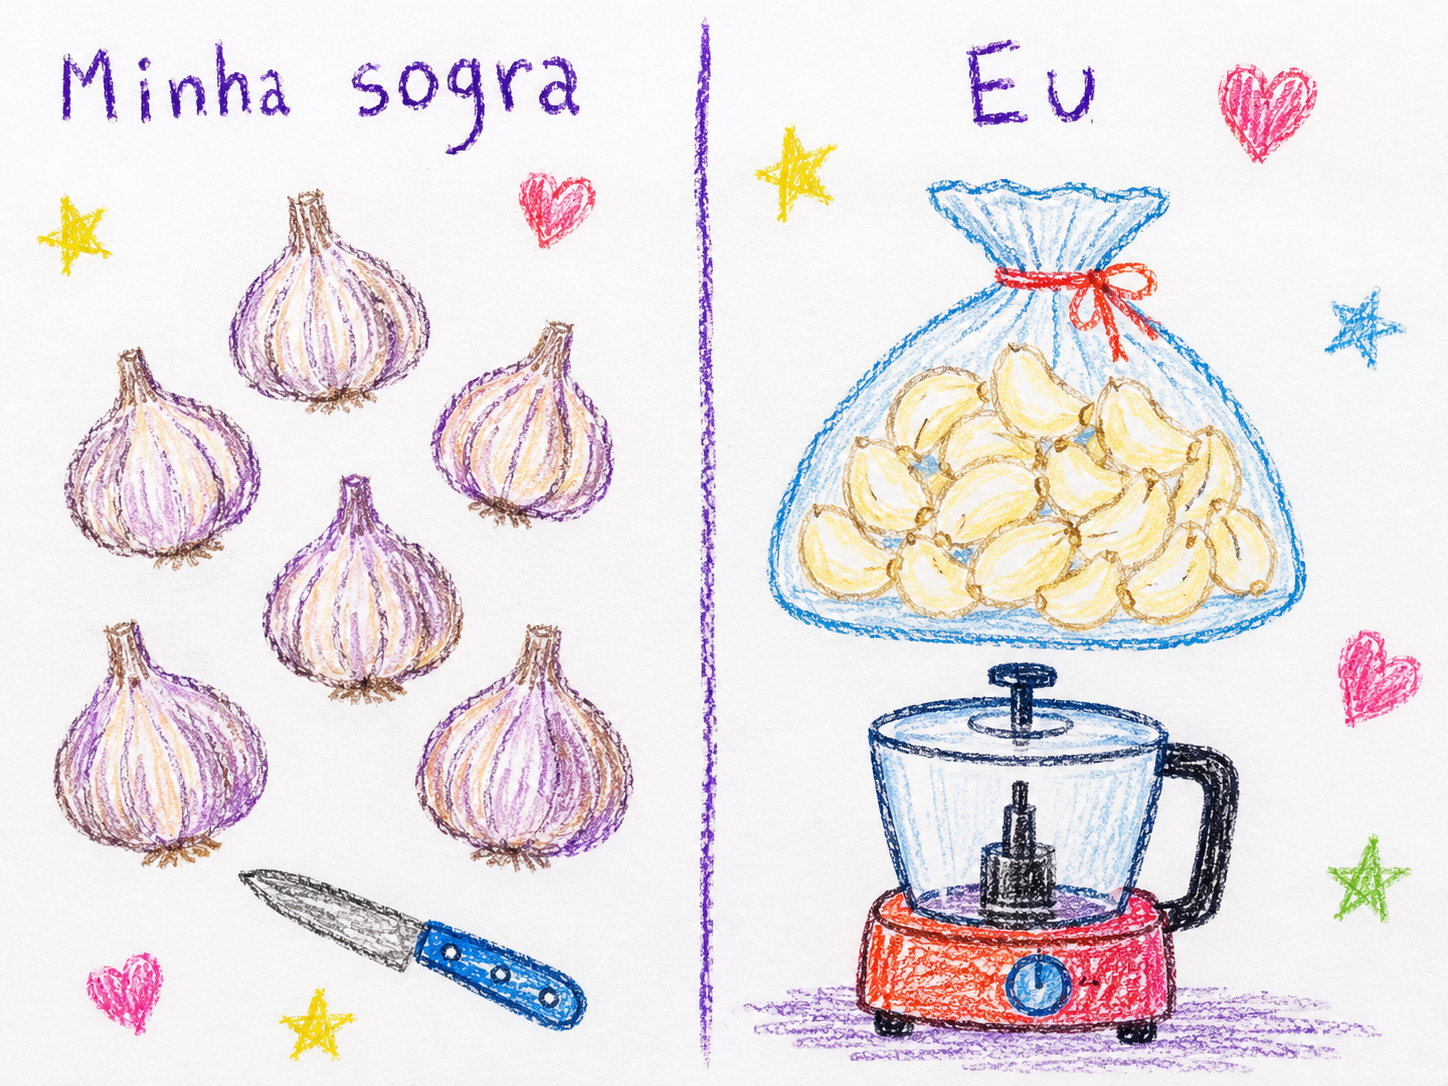
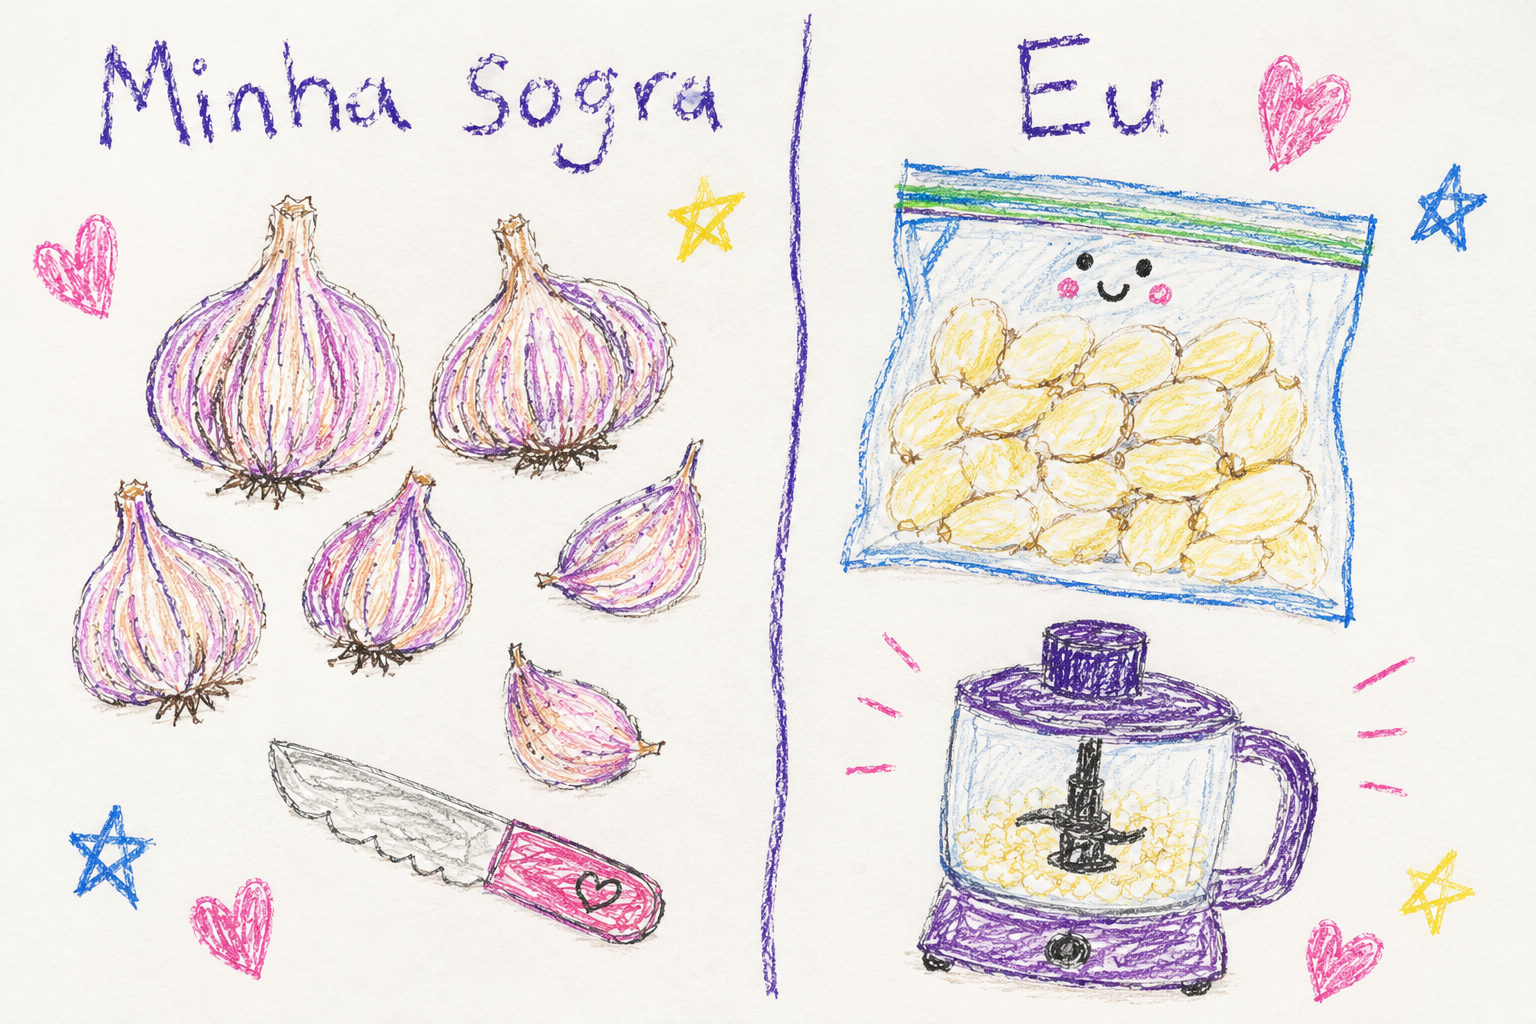
Refine homepage layout and article presentation

diff --git a/app/page.tsx b/app/page.tsx
@@ -1,5 +1,6 @@
 import Link from "next/link";
 import { ArticleCard } from "@/components/article-card";
+import { ProfileLinks } from "@/components/profile-links";
 import { getAllPosts } from "@/lib/posts";
 
 export default function HomePage() {
@@ -7,33 +8,32 @@ export default function HomePage() {
   const featuredPost = posts.find((post) => post.featured) ?? posts[0];
 
   return (
-    <>
-      <section className="shell intro" aria-labelledby="intro-title">
+    <div className="shell homeLayout">
+      <section className="intro" aria-labelledby="intro-title">
         <h1 id="intro-title">Hello, I’m Gabriel.</h1>
+        <ProfileLinks />
         <div className="introText">
           <p>I’m passionate about data, math, products, building things, thinking deeply, writing, and explaining complex ideas in simple terms (even though I struggle with most of them, haha).</p>
         </div>
         <div className="introMeta"><span>Rio de Janeiro, Brazil</span><span>Head of Data at EdukDados</span></div>
       </section>
 
-      <div className="shell homeSectionsGrid">
-        <section className="homeSection" aria-labelledby="writing-title">
-          <div className="sectionContent">
-            <h2 id="writing-title">Posts &amp; articles</h2>
-            <p>Essays, technical notes, and practical observations about work, learning, data, and the processes behind what we make.</p>
-            {featuredPost && <ArticleCard post={featuredPost} compact />}
-            <Link className="textLink" href="/writing/">Visit all posts &amp; articles →</Link>
-          </div>
-        </section>
+      <section className="homeSection postsSection" aria-labelledby="writing-title">
+        <div className="sectionContent">
+          <h2 id="writing-title"><Link className="sectionTitleLink" href="/writing/">Brain Dump</Link></h2>
+          <p>Essays, technical notes, and practical observations about work, learning, data, and the processes behind what we make.</p>
+          {featuredPost && <ArticleCard post={featuredPost} compact />}
+          <Link className="textLink" href="/writing/">Visit the Brain Dump →</Link>
+        </div>
+      </section>
 
-        <section className="homeSection quietSection" id="projects" aria-labelledby="projects-title">
-          <div className="sectionContent">
-            <h2 id="projects-title">Selected work, eventually.</h2>
-            <p>Project notes and case studies will appear here when they are ready to be shared properly.</p>
-            <span className="statusLine"><span aria-hidden="true" /> Coming soon</span>
-          </div>
-        </section>
-      </div>
-    </>
+      <section className="homeSection projectsSection" id="projects" aria-labelledby="projects-title">
+        <div className="sectionContent">
+          <h2 id="projects-title">Projects</h2>
+          <p>Project notes and case studies will appear here when they are ready to be shared properly.</p>
+          <span className="statusLine"><span aria-hidden="true" /> Coming soon</span>
+        </div>
+      </section>
+    </div>
   );
 }

diff --git a/app/globals.css b/app/globals.css
@@ -37,19 +37,24 @@ a { color: inherit; text-decoration-thickness: 1px; text-underline-offset: .22em
 .iconNav a { width: 38px; height: 38px; display: grid; place-items: center; border-radius: 50%; color: var(--secondary); text-decoration: none; transition: color .16s ease, background-color .16s ease; }
 .iconNav a:hover { color: var(--accent); background: var(--accent-soft); }
 .iconNav svg { width: 19px; height: 19px; }
+.introProfileLinks { margin-top: 1.15rem; }
 
-.intro { padding-block: clamp(4.5rem, 8vw, 7rem); display: grid; grid-template-columns: repeat(12, 1fr); gap: 24px; align-items: start; }
-.intro h1 { grid-column: 1 / 7; margin: 0; font-family: var(--serif); font-size: clamp(4rem, 8vw, 7rem); line-height: .95; font-weight: 400; letter-spacing: -.055em; }
-.introText { grid-column: 7 / 12; margin-top: 2rem; font-size: clamp(1.1rem, 2vw, 1.35rem); }
+.homeLayout { display: grid; grid-template-columns: minmax(300px, 2fr) minmax(0, 3fr); grid-template-areas: "intro posts" "projects posts"; column-gap: clamp(3rem, 8vw, 8rem); align-items: start; padding-block: clamp(3.5rem, 7vw, 6rem) clamp(5rem, 10vw, 8rem); }
+.intro { grid-area: intro; }
+.intro h1 { margin: 0; font-family: var(--serif); font-size: clamp(4rem, 6vw, 5.75rem); line-height: .95; font-weight: 400; letter-spacing: -.055em; }
+.introText { margin-top: 1.75rem; font-size: clamp(1rem, 1.5vw, 1.15rem); }
 .introText > p:first-child { margin-top: 0; color: var(--ink); }
 .placeholderCopy { font-size: .96rem; color: var(--secondary); }
 .placeholderCopy .mono { display: block; color: var(--accent); margin-bottom: .6rem; }
-.introMeta { grid-column: 7 / 12; display: flex; flex-wrap: wrap; gap: .5rem 1.5rem; padding-top: 1rem; margin-top: 1rem; border-top: 1px solid var(--rule); color: var(--muted); font-size: .8rem; }
+.introMeta { display: flex; flex-wrap: wrap; gap: .5rem 1.5rem; padding-top: 1rem; margin-top: 2.5rem; border-top: 1px solid var(--rule); color: var(--muted); font-size: .72rem; }
 
-.homeSectionsGrid { display: grid; grid-template-columns: minmax(0, 3fr) minmax(280px, 2fr); gap: clamp(2.5rem, 6vw, 6rem); }
-.homeSection { padding-block: clamp(4rem, 9vw, 7rem); border-top: 1px solid var(--ink); }
+.homeSection { border: 0; }
+.postsSection { grid-area: posts; }
+.projectsSection { grid-area: projects; margin-top: clamp(3rem, 6vw, 5rem); }
 .sectionContent { max-width: var(--reading); }
-.sectionContent h2 { margin: -.15rem 0 1.5rem; font-family: var(--serif); font-size: clamp(2.5rem, 5vw, 4.25rem); line-height: 1; font-weight: 400; letter-spacing: -.04em; }
+.sectionContent h2 { margin: -.15rem 0 1.25rem; font-family: var(--serif); font-size: clamp(2.4rem, 4vw, 3.5rem); line-height: 1; font-weight: 400; letter-spacing: -.04em; }
+.sectionTitleLink { text-decoration: none; }
+.sectionTitleLink:hover { color: var(--accent); }
 .sectionContent > p { color: var(--secondary); font-size: 1.08rem; }
 .emptyState { margin: 3rem 0 1.5rem; padding: 1.5rem 0; border-block: 1px solid var(--rule); display: flex; justify-content: space-between; gap: 2rem; }
 .emptyState p { margin: 0; color: var(--muted); }
@@ -67,7 +72,6 @@ a { color: inherit; text-decoration-thickness: 1px; text-underline-offset: .22em
 .articleCardCompact .articleCardImage { min-height: 210px; }
 .articleCardCompact .articleCardBody { padding: 1.5rem; }
 .articleCardCompact .articleCardBody strong { font-size: clamp(1.8rem, 3vw, 2.5rem); }
-.quietSection { border-color: var(--rule); padding-bottom: clamp(6rem, 12vw, 10rem); }
 .statusLine { display: inline-flex; align-items: center; gap: .55rem; margin-top: 1.5rem; font-family: var(--mono); font-size: .7rem; text-transform: uppercase; color: var(--muted); }
 .statusLine > span { width: 7px; height: 7px; border-radius: 50%; background: var(--accent); }
 
@@ -82,12 +86,11 @@ a { color: inherit; text-decoration-thickness: 1px; text-underline-offset: .22em
 
 .articlePage { width: min(calc(100% - 48px), var(--reading)); margin-inline: auto; padding-block: clamp(4rem, 10vw, 8rem); }
 .articleHeader { margin-bottom: clamp(3rem, 7vw, 5rem); }
-.articleHeader h1 { margin: 1.25rem 0 1.5rem; font-family: var(--serif); font-size: clamp(3.8rem, 9vw, 7rem); line-height: .94; font-weight: 400; letter-spacing: -.055em; }
+.articleHeader h1 { margin: 0 0 1.5rem; font-family: var(--serif); font-size: clamp(3.8rem, 9vw, 7rem); line-height: .94; font-weight: 400; letter-spacing: -.055em; }
 .articleDek { max-width: 580px; color: var(--secondary); font-size: 1.15rem; }
 .articleMeta { margin-top: 2rem; padding-top: 1rem; border-top: 1px solid var(--rule); color: var(--muted); }
-.articleHero { position: relative; aspect-ratio: 3 / 2; margin: 0 0 clamp(3rem, 7vw, 5rem); overflow: hidden; background: var(--soft); }
-.articleHero img { object-fit: cover; }
-.articleBody { font-family: var(--serif); font-size: clamp(1.15rem, 2.2vw, 1.3rem); line-height: 1.75; }
+.articleBody { font-family: var(--serif); font-size: 1.1rem; line-height: 1.75; }
+/* .articleBody { font-family: var(--serif); font-size: clamp(1.05rem, 1.8vw, 1.18rem); line-height: 1.75; } */
 .articleBody p { margin: 0 0 1.55em; }
 .articleBody p:first-child::first-letter { float: left; margin: .08em .12em 0 0; color: var(--accent); font-size: 4.2em; line-height: .75; }
 .articleBody h2, .articleBody h3 { margin: 2.2em 0 .75em; line-height: 1.15; font-weight: 400; letter-spacing: -.025em; }
@@ -121,13 +124,12 @@ a { color: inherit; text-decoration-thickness: 1px; text-underline-offset: .22em
   .headerRight { gap: .75rem; }
   .iconNav { gap: .2rem; }
   .iconNav a { width: 36px; height: 36px; }
-  .intro { grid-template-columns: 1fr; padding-block: 4.5rem; }
-  .intro h1, .introText, .introMeta { grid-column: 1; }
+  .homeLayout { grid-template-columns: 1fr; grid-template-areas: "intro" "posts" "projects"; row-gap: 4rem; padding-block: 4rem 6rem; }
   .intro h1 { font-size: clamp(3.8rem, 18vw, 6.5rem); }
   .introText { margin-top: 2rem; }
   .introMeta { margin-top: 2rem; }
   .headerRight { flex-wrap: wrap; justify-content: center; gap: .35rem 1rem; padding-block: .55rem; }
-  .homeSectionsGrid { grid-template-columns: 1fr; gap: 0; }
+  .projectsSection { margin-top: 0; }
   .emptyState { flex-direction: column; gap: .5rem; }
   .articleCard, .articleCardCompact { grid-template-columns: 1fr; }
   .articleCardImage, .articleCardCompact .articleCardImage { min-height: 220px; }

diff --git a/components/profile-links.tsx b/components/profile-links.tsx
@@ -1,0 +1,25 @@
+import Link from "next/link";
+
+type IconName = "email" | "github" | "linkedin" | "resume";
+
+const iconPaths: Record<IconName, React.ReactNode> = {
+  email: <><rect x="3" y="5" width="18" height="14" rx="2" /><path d="m3 7 9 6 9-6" /></>,
+  github: <path d="M15 22v-4a4.8 4.8 0 0 0-1-3.5c3.3-.4 6.8-1.6 6.8-7A5.4 5.4 0 0 0 19.4 4 5 5 0 0 0 19.2.5S18.1.1 15 1.8a13.4 13.4 0 0 0-7 0C4.9.1 3.8.5 3.8.5A5 5 0 0 0 3.6 4a5.4 5.4 0 0 0-1.4 3.5c0 5.4 3.5 6.6 6.8 7A4.8 4.8 0 0 0 8 18v4m0-3c-3 .9-3-1.5-4-2" />,
+  linkedin: <><rect x="3" y="9" width="4" height="12" /><path d="M5 3.5a2 2 0 1 0 0 4 2 2 0 0 0 0-4M11 21V9h4v2c1-1.5 2.5-2.3 4-1.8 2 .6 2 2.5 2 5.3V21h-4v-6c0-1.5-.5-2.5-2-2.5s-2 1-2 2.5v6" /></>,
+  resume: <><path d="M6 2h9l4 4v16H6z" /><path d="M14 2v5h5M9 12h7M9 16h7" /></>,
+};
+
+function Icon({ name }: { name: IconName }) {
+  return <svg aria-hidden="true" viewBox="0 0 24 24" fill="none" stroke="currentColor" strokeWidth="1.7" strokeLinecap="round" strokeLinejoin="round">{iconPaths[name]}</svg>;
+}
+
+export function ProfileLinks() {
+  return (
+    <nav className="iconNav introProfileLinks" aria-label="Contact and profile links">
+      <a href="mailto:[email redacted]" aria-label="Email" title="Email"><Icon name="email" /></a>
+      <a href="https://github.com/GGregon" aria-label="GitHub" title="GitHub" target="_blank" rel="noopener noreferrer"><Icon name="github" /></a>
+      <a href="https://www.linkedin.com/in/gabriel-gregon" aria-label="LinkedIn" title="LinkedIn" target="_blank" rel="noopener noreferrer"><Icon name="linkedin" /></a>
+      <Link href="/resume/" aria-label="Résumé" title="Résumé"><Icon name="resume" /></Link>
+    </nav>
+  );
+}

diff --git a/app/layout.tsx b/app/layout.tsx
@@ -29,20 +29,8 @@ export const metadata: Metadata = {
 
 export const viewport: Viewport = { width: "device-width", initialScale: 1, themeColor: "#f7f7f3" };
 
-type IconName = "email" | "github" | "linkedin" | "resume";
-const iconPaths: Record<IconName, React.ReactNode> = {
-  email: <><rect x="3" y="5" width="18" height="14" rx="2" /><path d="m3 7 9 6 9-6" /></>,
-  github: <path d="M15 22v-4a4.8 4.8 0 0 0-1-3.5c3.3-.4 6.8-1.6 6.8-7A5.4 5.4 0 0 0 19.4 4 5 5 0 0 0 19.2.5S18.1.1 15 1.8a13.4 13.4 0 0 0-7 0C4.9.1 3.8.5 3.8.5A5 5 0 0 0 3.6 4a5.4 5.4 0 0 0-1.4 3.5c0 5.4 3.5 6.6 6.8 7A4.8 4.8 0 0 0 8 18v4m0-3c-3 .9-3-1.5-4-2" />,
-  linkedin: <><rect x="3" y="9" width="4" height="12" /><path d="M5 3.5a2 2 0 1 0 0 4 2 2 0 0 0 0-4M11 21V9h4v2c1-1.5 2.5-2.3 4-1.8 2 .6 2 2.5 2 5.3V21h-4v-6c0-1.5-.5-2.5-2-2.5s-2 1-2 2.5v6" /></>,
-  resume: <><path d="M6 2h9l4 4v16H6z" /><path d="M14 2v5h5M9 12h7M9 16h7" /></>,
-};
-
-function Icon({ name }: { name: IconName }) {
-  return <svg aria-hidden="true" viewBox="0 0 24 24" fill="none" stroke="currentColor" strokeWidth="1.7" strokeLinecap="round" strokeLinejoin="round">{iconPaths[name]}</svg>;
-}
-
 function Header() {
-  return <header className="siteHeader"><div className="shell headerInner"><div className="headerRight"><nav className="primaryNav" aria-label="Primary navigation"><Link href="/writing/">Posts &amp; Articles</Link><Link href="/#projects">Projects</Link></nav><nav className="iconNav" aria-label="Contact and profile links"><a href="mailto:[email redacted]" aria-label="Email" title="Email"><Icon name="email" /></a><a href={siteConfig.github} aria-label="GitHub" title="GitHub" target="_blank" rel="noopener noreferrer"><Icon name="github" /></a><a href={siteConfig.linkedin} aria-label="LinkedIn" title="LinkedIn" target="_blank" rel="noopener noreferrer"><Icon name="linkedin" /></a><Link href="/resume/" aria-label="Résumé" title="Résumé"><Icon name="resume" /></Link></nav></div></div></header>;
+  return <header className="siteHeader"><div className="shell headerInner"><div className="headerRight"><nav className="primaryNav" aria-label="Primary navigation"><Link href="/">Home</Link><Link href="/writing/">Brain Dump</Link><Link href="/#projects">Projects</Link></nav></div></div></header>;
 }
 
 function Footer() {

diff --git a/app/writing/[slug]/page.tsx b/app/writing/[slug]/page.tsx
@@ -43,15 +43,10 @@ export default async function PostPage({ params }: PageProps) {
   return (
     <article className="articlePage" lang={post.language}>
       <header className="articleHeader">
-        <p className="eyebrow">Ensaio / {post.category}</p>
         <h1>{post.title}</h1>
         <p className="articleDek">{post.description}</p>
         <p className="articleMeta mono"><time dateTime={post.date}>{formatPostDate(post.date)}</time> · {post.author}</p>
       </header>
-
-      <figure className="articleHero">
-        <Image src={postAssetPath(post, post.cover)} alt={post.coverAlt} fill sizes="(max-width: 760px) 100vw, 700px" priority />
-      </figure>
 
       <div className="articleBody">
         <ReactMarkdown components={{
@@ -68,7 +63,7 @@ export default async function PostPage({ params }: PageProps) {
         }}>{post.content}</ReactMarkdown>
       </div>
 
-      <Link className="articleBack" href="/writing/">← Back to posts &amp; articles</Link>
+      <Link className="articleBack" href="/writing/">← Back to the Brain Dump</Link>
     </article>
   );
 }

diff --git a/app/writing/page.tsx b/app/writing/page.tsx
@@ -3,7 +3,7 @@ import { ArticleCard } from "@/components/article-card";
 import { getAllPosts } from "@/lib/posts";
 
 export const metadata: Metadata = {
-  title: "Posts & Articles",
+  title: "Brain Dump",
   description: "Notes on data architecture, analytics, machine learning, and educational technology.",
   alternates: { canonical: "/writing/" },
 };
@@ -14,7 +14,7 @@ export default function WritingPage() {
   return (
     <section className="shell archivePage">
       <header className="archiveHeader">
-        <p className="eyebrow">Posts &amp; articles</p>
+        <p className="eyebrow">Brain Dump</p>
         <h1>A public notebook,<br />slowly taking shape.</h1>
         <p>Short notes and longer articles about building data systems, working with analytical products, and learning from technical decisions.</p>
       </header>

diff --git a/lib/posts.ts b/lib/posts.ts
@@ -8,7 +8,6 @@ export type Post = {
   title: string;
   date: string;
   description: string;
-  category: string;
   author: string;
   language: string;
   cover: string;
@@ -40,7 +39,7 @@ function readPost(slug: string): Post | null {
   const parsed = parseFrontmatter(fs.readFileSync(filePath, "utf8"));
   if (!parsed || parsed.data.published !== "true") return null;
 
-  const required = ["title", "date", "description", "category", "author", "language", "cover", "coverAlt"];
+  const required = ["title", "date", "description", "author", "language", "cover", "coverAlt"];
   for (const field of required) {
     if (!parsed.data[field]) throw new Error(`Post "${slug}" is missing frontmatter field "${field}".`);
   }
@@ -53,7 +52,6 @@ function readPost(slug: string): Post | null {
     title: parsed.data.title,
     date: parsed.data.date,
     description: parsed.data.description,
-    category: parsed.data.category,
     author: parsed.data.author,
     language: parsed.data.language,
     cover: parsed.data.cover,

diff --git a/blog/posts/a-farofa-de-alho/index.md b/blog/posts/a-farofa-de-alho/index.md
@@ -2,11 +2,10 @@
 title: "A farofa de alho"
 date: "2026-07-22"
 description: "Um ensaio sobre tempo, processo e o que realmente faz diferença no resultado."
-category: "Cozinha & trabalho"
 author: "Gabriel Gregon"
 language: "pt-BR"
-cover: "cover.png"
-coverAlt: "Ilustração em lápis de cor de um prato de farofa de alho, com um sol e um coração"
+cover: "images/sogra_segurando_prato_farofa.png"
+coverAlt: "Ilustração em lápis de cor de uma mulher segurando um prato de farofa"
 published: true
 featured: true
 ---
@@ -19,42 +18,41 @@ Isso significa que passei cerca de 75% desse tempo aprendendo e, com certeza, er
 
 E não me entenda mal: isso não significa que, ao longo desses quase 20 anos, eu tenha me preocupado apenas em preparar alguma coisa para me alimentar. Na esmagadora maioria das vezes, eu errei justamente em situações nas quais meu objetivo era entregar um prato digno de restaurante. Esse é o meu hobby.
 
-De acordo com as pessoas mais próximas de mim, especialmente aquelas que já comeram da minha comida mais de uma vez, eu cozinho muito bem. Elas disseram. Jamais usaria um espaço privado como este para me auto-bajular, rs.
+De acordo com as pessoas mais próximas de mim, especialmente aquelas que já comeram da minha comida mais de uma vez, eu cozinho muito bem (dito por elas!!!. Não usaria um espaço privado como este para me auto-bajular, rs.)
 
 Feita essa breve digressão sobre minha relação com a gastronomia, apresento-lhes a farofa da minha sogra.
 
+![Sogra segurando prato](./images/sogra_segurando_prato_farofa.png)
+
 Minha sogra gosta de cortar o alho de uma maneira muito específica quando prepara farofa. A farofa dela é muito boa, mas eu sempre desconfiei que conseguiria chegar ao mesmo resultado — ou a um resultado indistinguível ao paladar — em uma fração do tempo.
 
-Acontece que minha sogra gosta de descascar o alho da forma mais difícil possível.
+Acontece que minha sogra gosta de descascar o alho da forma mais difícil possível!
 
 Ela não esmaga o alho, não o aquece e não utiliza nenhum recurso que possa economizar tempo. Vai alho por alho, um a um, retirando cada camada infinitesimalmente fina de pele, como se estivesse lapidando-o.
 
-Em seguida, usando uma faca que nem sequer foi feita propriamente para corte, transforma o alho em lascas muito finas. Depois, coloca essas lâminas em uma frigideira com uma quantidade exorbitante de manteiga, acrescenta a farinha de mandioca, mexe por alguns segundos e pronto. Corrige o sal e está feita a farofa de alho da minha sogra, que, repito, é muito gostosa.
+Em seguida, usando uma faca que nem sequer foi feita propriamente para corte, transforma o alho em lascas muito finas. Depois, coloca essas lâminas em uma frigideira com uma quantidade exorbitante de manteiga, acrescenta a farinha de mandioca, mexe por alguns segundos e pronto.
 
-![Dentes de alho cortados em lascas finas](./images/lento_vs_rapido.png)
-
-
-Repito: não há problema algum com a farofa dela.
+Corrige o sal e está feita a farofa de alho da minha sogra, que, repito, é muito gostosa.
 
 Certa vez, quando a questionei sobre por que gastava tanto tempo nesse processo, ela disse que o sabor ficava diferente.
 
-Imediatamente, lembrei-me de todos os anos em que cozinhei e tive muita confiança de que aquela não poderia ser a resposta.
+Imediatamente, lembrei-me de todos os anos em que cozinhei e tive muita confiança de que aquela não poderia ser a resposta. Estava convícto que, dado o contexto onde a farofa era um acompanhamento, seria impossivel notar diferença caso o alho fosse preparado de outra forma.
 
-Burro que sou, continuei questionando.
+Burro que fui, continuei questionando.
 
-Mas, a partir daquele momento, eu já não falava mais apenas com a minha sogra. Falava com uma pessoa que havia sido questionada sobre algo em que provavelmente nunca tinha parado para pensar e que, diante disso, colocou um escudo à sua frente. Tudo o que eu dissesse dali em diante seria rebatido com respostas que já não tinham muita relação com a pergunta inicial.
+Mas, a partir daquele momento, eu já não falava mais apenas com a minha sogra. Falava com uma pessoa que havia sido questionada sobre algo em que provavelmente nunca tinha parado para pensar e que, diante disso, colocou um escudo à sua frente.
 
-Eu não pretendia discutir. Ainda assim, comecei a refletir sobre aquilo porque tinha convicção de que não fazia diferença alguma.
+Tudo o que eu dissesse dali em diante seria rebatido com respostas que já não tinham muita relação com a pergunta inicial.
 
-Alguns meses depois, inclusive, pude confirmar minha suspeita. Minha namorada pediu que eu preparasse o almoço, e ficou sob minha responsabilidade fazer também a farofa.
+Alguns meses depois, pude confirmar minha hipótese.. Minha namorada pediu que eu preparasse o almoço, e ficou sob minha responsabilidade fazer também a farofa.
 
-Fui ao mercado, paguei um pouco mais caro e comprei um saco de alho já descascado. Cortei as partes que estavam ligeiramente mais escuras, coloquei tudo no processador e levei à frigideira com uma quantidade exorbitante de manteiga — porque isso, de fato, não pode faltar.
+Fui ao mercado, comprei um saco de alho já descascado. Cortei as partes que estavam ligeiramente mais escuras, coloquei tudo no processador e levei à frigideira com uma quantidade exorbitante de manteiga — porque isso, de fato, não pode faltar.
 
 E voilà: estava pronta a farofa de alho.
 
-Ao final do almoço, perguntei a todos o que tinham achado.
+![Dentes de alho cortados em lascas finas](./images/lento_vs_rapido.png)
 
-Todos elogiaram:
+Ainda durante o almoço, sem que eu falasse nada, todos elogiaram:
 
 — Nossa, a farofa ficou muito boa.
 
@@ -62,27 +60,23 @@ Foi nesse momento que comecei a refletir.
 
 Aqui, é importante fazer uma observação fundamental: o prato principal não era a farofa. Que dirá a farofa de alho.
 
-Tratava-se de um acompanhamento que seria degustado junto de outros alimentos. Portanto, quando estivesse na boca, seria virtualmente impossível distinguir uma versão da outra, a não ser visualmente.
+Tratava-se de um acompanhamento que seria degustado junto de outros alimentos. Portanto, quando estivesse na boca, seria virtualmente impossível distinguir uma versão da outra, a não ser visualmente (alho em lascas vs alho triturado). Ainda assim, o sabor é indistinguível.
 
-Quando você prepara uma farofa com alho em lascas, existe uma chance maior de enxergá-lo. Quando tritura o alho, ele praticamente desaparece. Ainda assim, o sabor é indistinguível.
+Só que, desde o dia em que conversei com minha sogra sobre isso até o momento em que fiquei responsável por preparar o almoço, ela continuou fazendo o alho da maneira usual (by the way, continua até hoje, rs)
 
-Só que, desde o dia em que conversei com minha sogra sobre isso até o momento em que fiquei responsável por preparar o almoço, ela continuou fazendo o alho da maneira usual.
+E eu me questionava: por que ela continua investindo tanto tempo nisso, mesmo depois de eu ter pontuado que talvez não fizesse diferença? Mesmo depois de eu ter mostrado uma solução mais rapida, simples e que não alterava o sabor?
 
-E eu me questionava: por que ela continua investindo tanto tempo nisso, mesmo depois de eu ter pontuado que talvez não fizesse diferença?
+Foi então que comecei uma reflexão interna... Será que isso nunca aconteceu comigo? Ou com você, apenas se manifestando de maneiras diferentes?
 
-Foi então que comecei uma reflexão interna.
-
-Será que isso nunca aconteceu comigo?
-
-Será que isso não acontece com todos nós em vários outros momentos, apenas se manifestando de maneiras diferentes?
-
-Acontece que, enquanto minha sogra descascava o alho, ela aproveitava para conversar, fofocar sobre alguma coisa, perguntar às filhas como estava a vida, reclamar e, eventualmente, exercitar sua coordenação motora.
+Acontece que, enquanto minha sogra descascava o alho, ela aproveitava para conversar, fofocar sobre alguma coisa, perguntar às filhas como estava a vida, ouvir o culto, reclamar e, eventualmente, exercitar sua coordenação motora.
 
 Aquele momento não era apenas sobre preparar o almoço.
 
 Eu demorei um pouco para entender isso.
 
-Na minha cabeça, sempre preocupada em fazer as coisas de forma rápida e objetiva, faltou sensibilidade para perceber o que estava acontecendo. Talvez eu não tenha tido essa sensibilidade justamente porque, muitas vezes, sou eu a pessoa que gasta tempo descascando e cortando o alho da maneira mais demorada e mais difícil, acreditando que isso produzirá um resultado melhor.
+Na minha cabeça, sempre preocupada em fazer as coisas de forma rápida e objetiva, faltou sensibilidade para perceber o que estava acontecendo.
+
+Talvez eu não tenha tido essa sensibilidade justamente porque, muitas vezes, sou eu a pessoa que gasta tempo descascando e cortando o alho da maneira mais demorada e mais difícil, acreditando que isso produzirá um resultado melhor.
 
 A diferença essencial é que, no caso dela, o valor não estava no produto final. Estava no processo. Estava no meio do caminho.
 
@@ -92,19 +86,21 @@ Se ela simplesmente colocasse tudo no processador, estaria abdicando disso.
 
 Acho que o ponto é que só conseguimos afirmar que algo não vale o tempo investido depois de já termos gasto tempo suficiente para testar e verificar se realmente não faz diferença.
 
-Acontece que cozinhar é o meu hobby. Por isso, pude me dar ao luxo de levar quase 20 anos para aprender.
+Acontece que cozinhar é o meu hobby. Por isso, pude me dar ao luxo de levar quase 20 anos para aprender. Para ela, de alguma forma, também.
 
 No trabalho, não necessariamente temos esse luxo.
 
-No trabalho, às vezes precisamos confiar na experiência de quem já faz farofa de alho há mais tempo do que nós e simplesmente aceitar que determinado esforço não fará diferença. Não naquele momento. Não para o resultado esperado. Não para o almoço de domingo.
+No trabalho, às vezes precisamos confiar na experiência de quem já faz farofa de alho há mais tempo do que nós e simplesmente aceitar que determinado esforço não fará diferença.
 
-Talvez faça diferença para um prato que pretende receber uma estrela Michelin no futuro. Mas essa não era a necessidade agora.
+Não naquele momento. Não para o resultado esperado.
+
+Não para o almoço de domingo. Não para o que era necessário agora...
 
 Quando nos recusamos a aceitar isso e insistimos em descobrir tudo sozinhos, acabamos exatamente na mesma posição em que eu acreditava que minha sogra estava.
 
 Uma posição que, para mim, não fazia sentido algum.
 
-A diferença é que minha sogra não tinha nada a perder.
+A diferença é que minha sogra não tinha nada a perder...
 
 Pelo contrário: ela estava ganhando um momento de descontração. Estava conversando, convivendo e vivendo a vida.
 

diff --git a/blog/posts/_template/index.md b/blog/posts/_template/index.md
@@ -2,7 +2,6 @@
 title: "Post title"
 date: "YYYY-MM-DD"
 description: "A short description for cards and search results."
-category: "Category"
 author: "Gabriel Gregon"
 language: "pt-BR"
 cover: "cover.jpg"